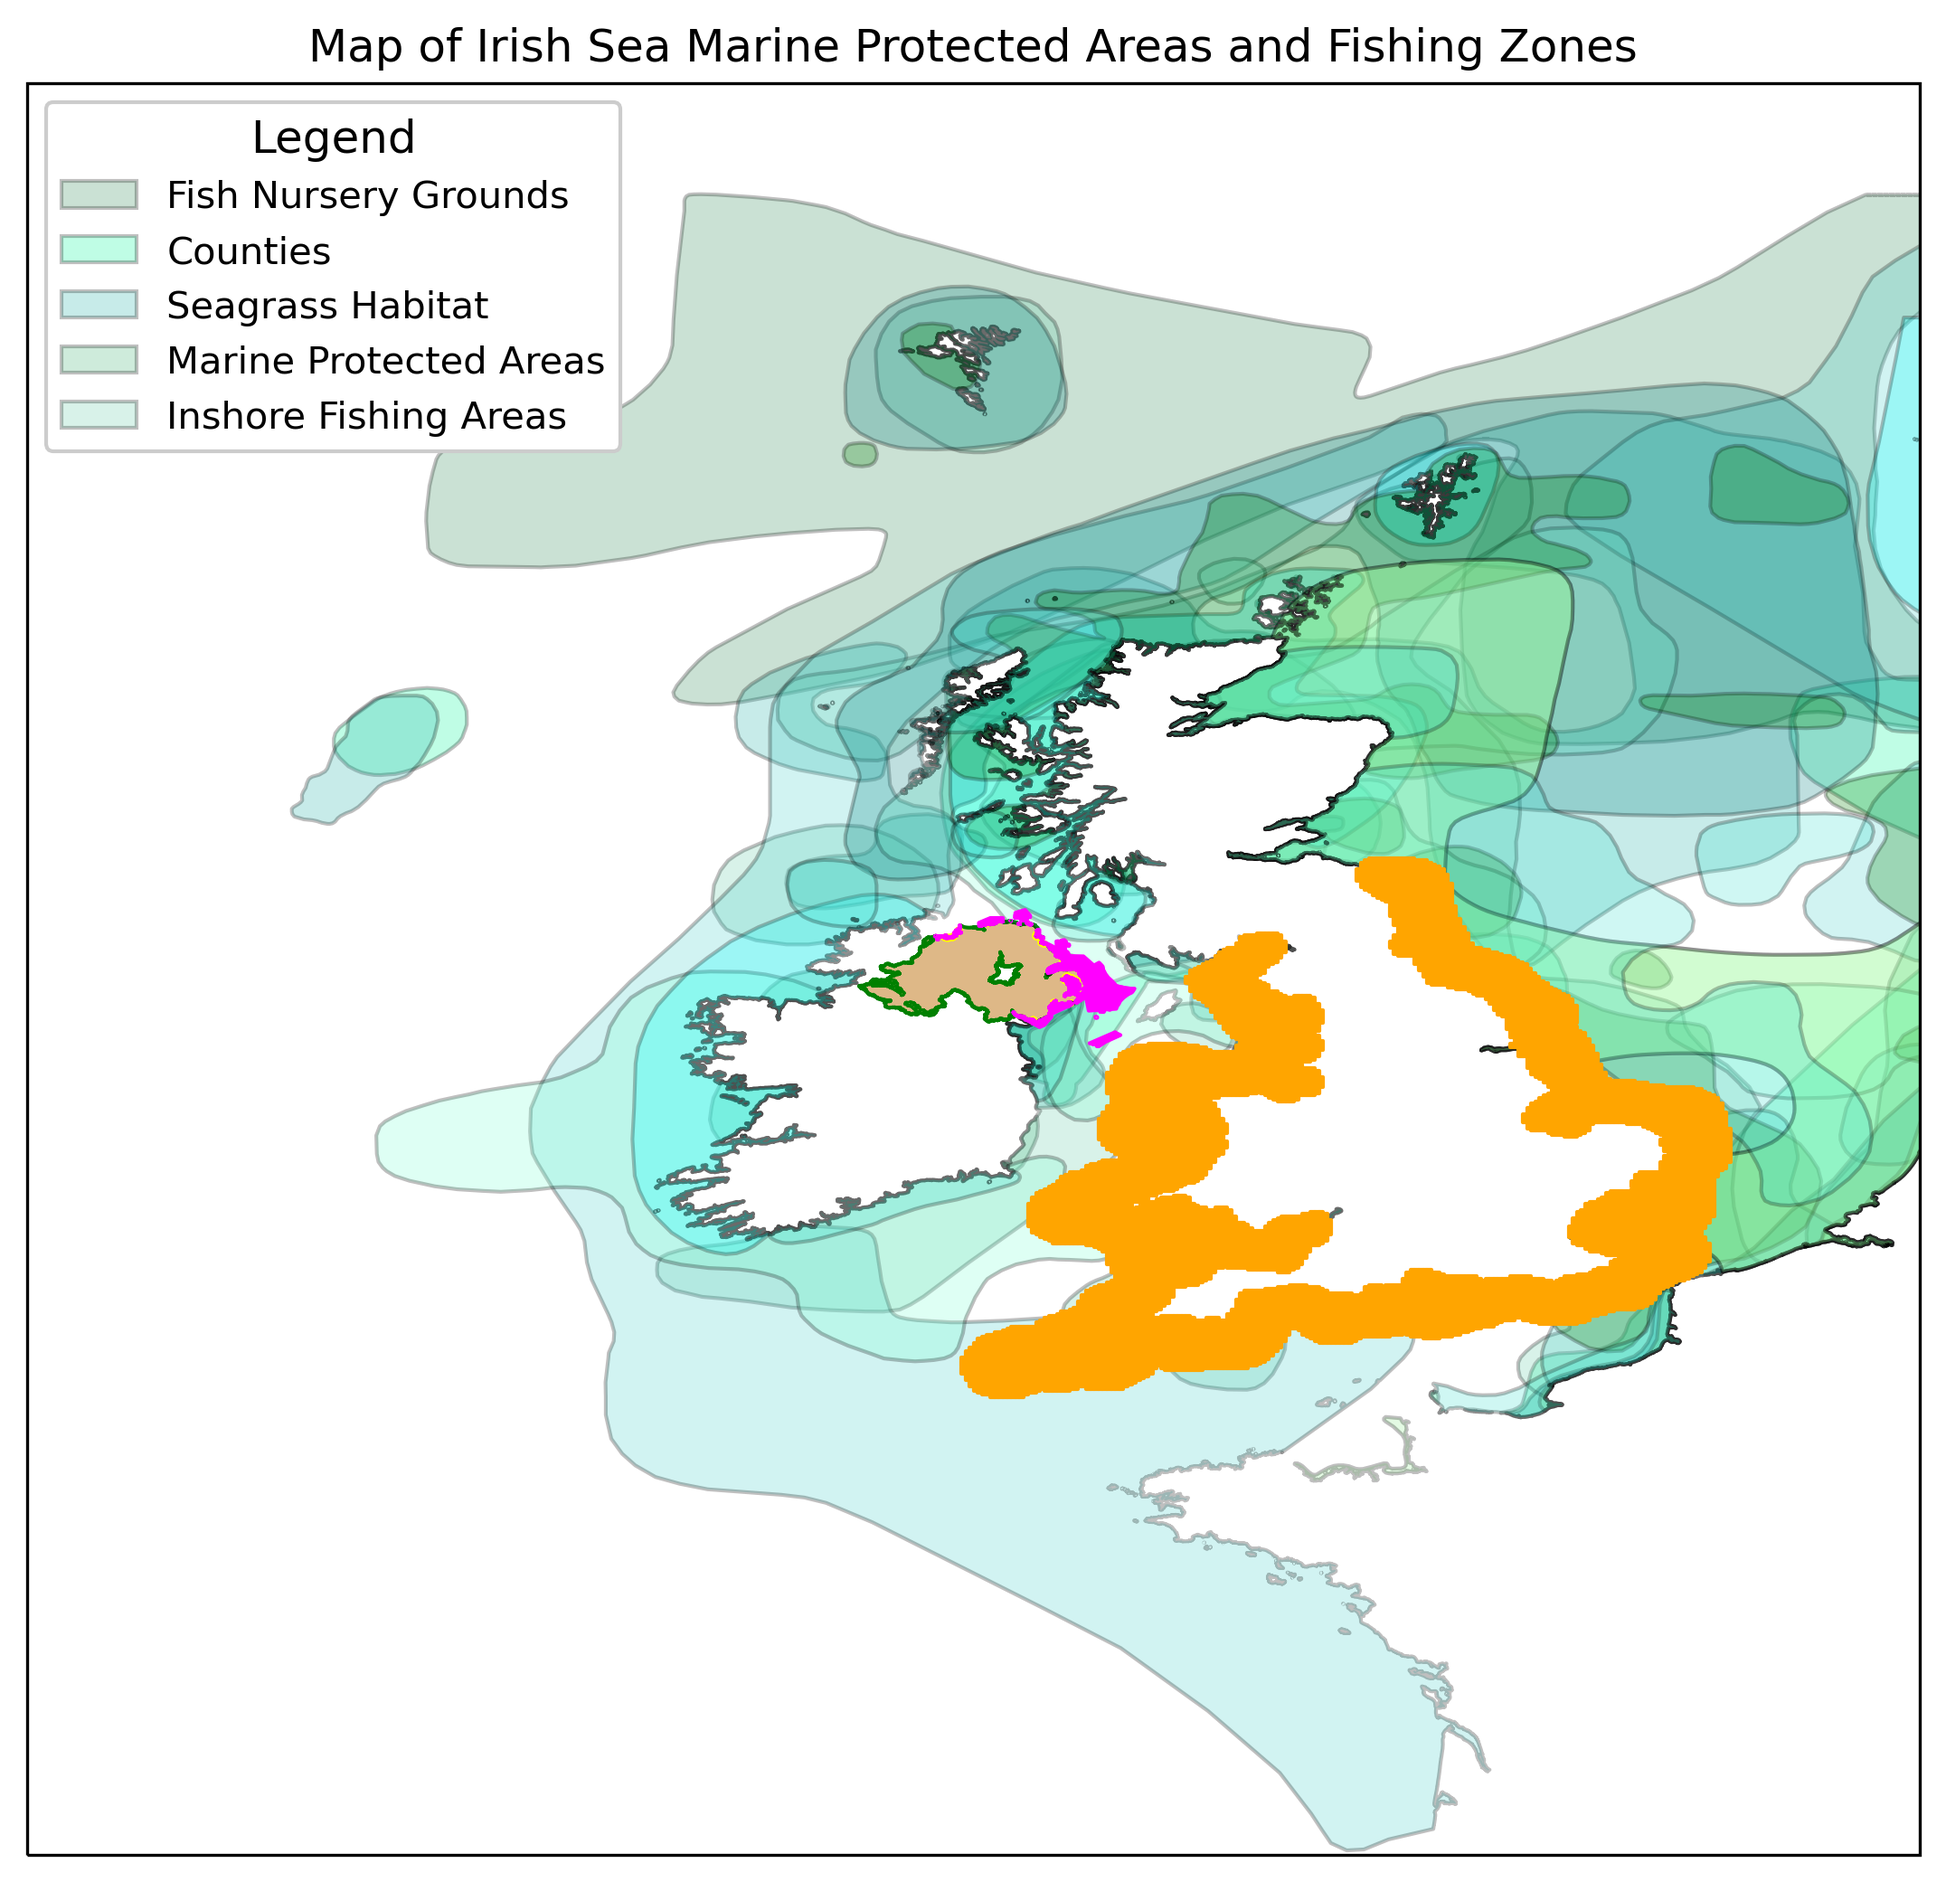
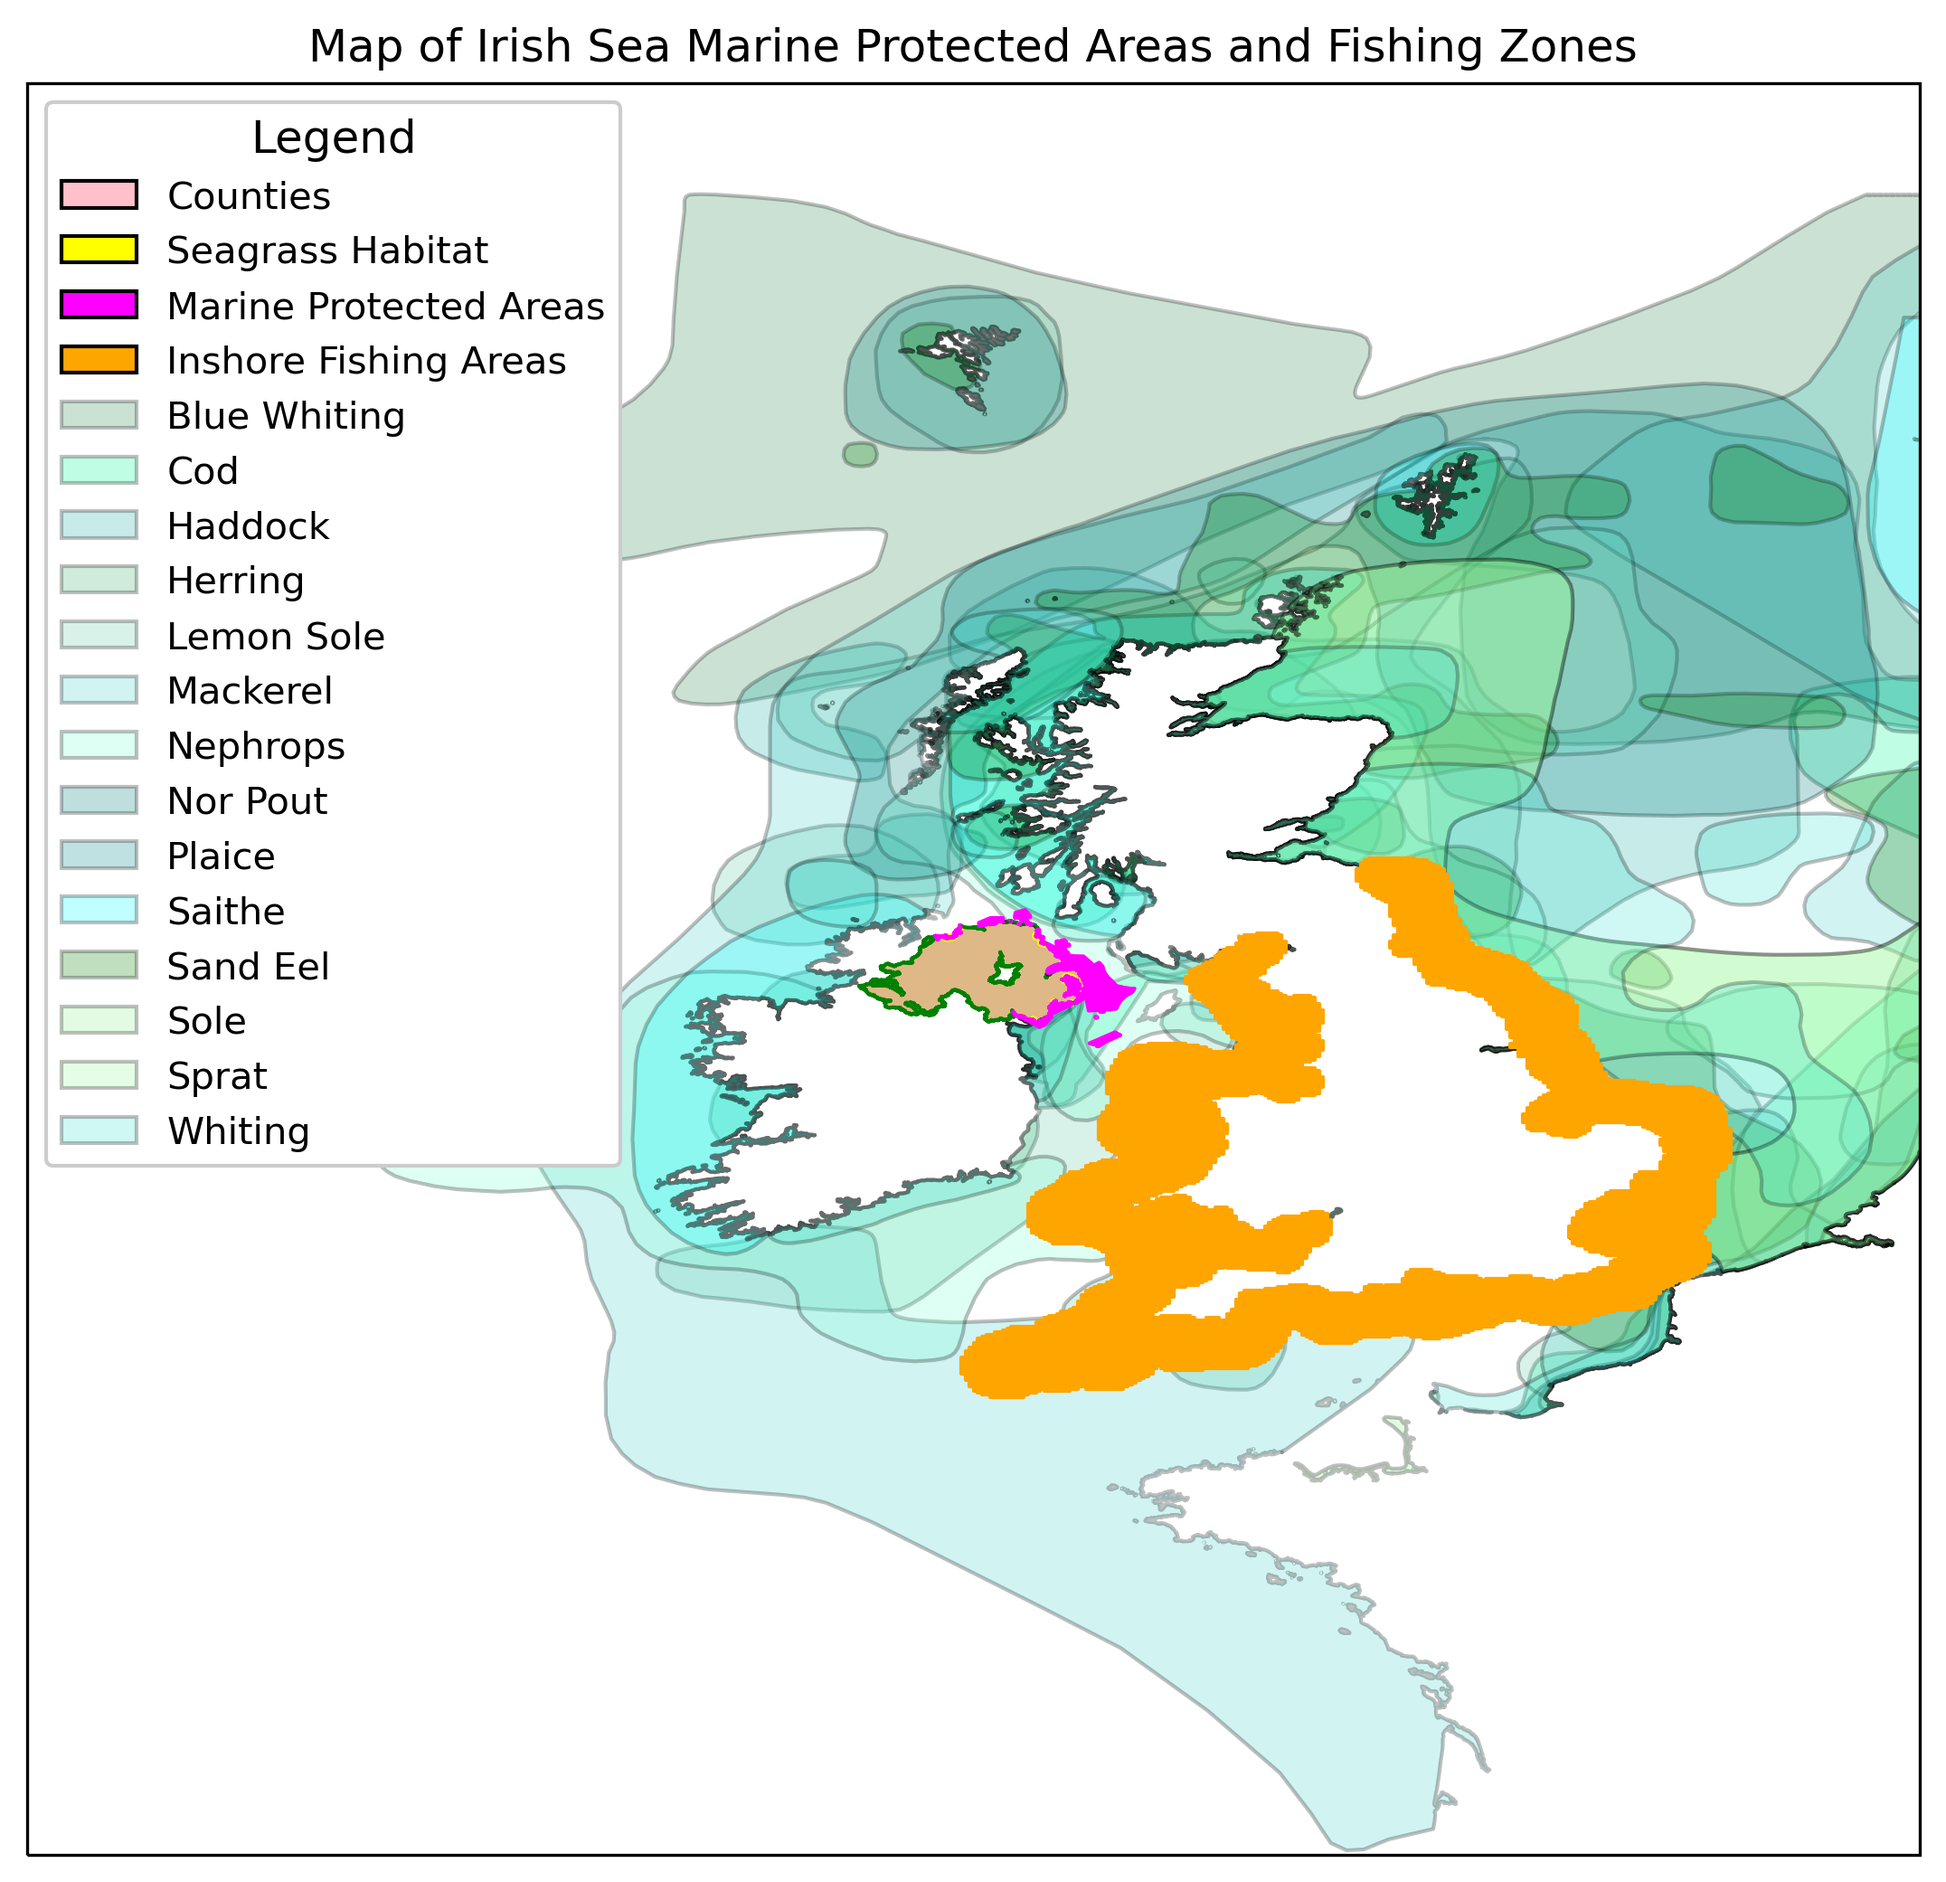
working on script

Changed region(s): [[0.0311, 0.0937, 0.3425, 0.6247], [0.1868, 0.531, 0.3425, 0.6247]]

diff --git a/marine_map_creation.py b/marine_map_creation.py
@@ -107,8 +107,10 @@ mpa_handle = generate_handles(['Marine Protected Areas'], ['magenta'])
 fishing_handle = generate_handles(['Inshore Fishing Areas'], ['orange'])
 
 # Create legend by combining all handles
-handles = species_handles + county_handles + seagrass_handle + mpa_handle + fishing_handle
-labels = ['Fish Nursery Grounds', 'Counties', 'Seagrass Habitat', 'Marine Protected Areas', 'Inshore Fishing Areas']
+handles = county_handles + seagrass_handle + mpa_handle + fishing_handle + species_handles
+labels = ['Counties', 'Seagrass Habitat', 'Marine Protected Areas', 'Inshore Fishing Areas',
+          'Blue Whiting', 'Cod', 'Haddock', 'Herring', 'Lemon Sole', 'Mackerel', 'Nephrops', 'Nor Pout', 'Plaice',
+          'Saithe', 'Sand Eel', 'Sole', 'Sprat', 'Whiting']
 leg = ax.legend(handles, labels, title='Legend', title_fontsize=12,
                  fontsize=10, loc='upper left', frameon=True, framealpha=1)
 
